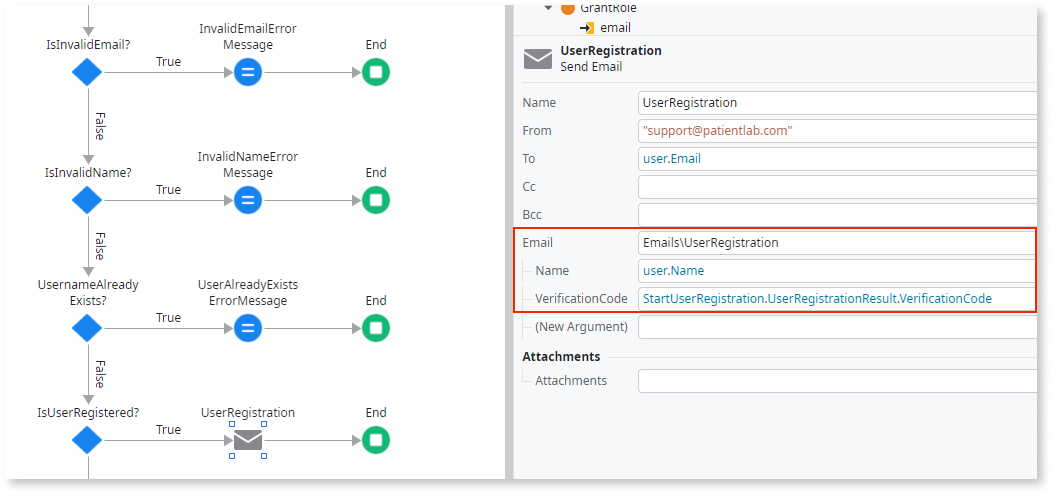
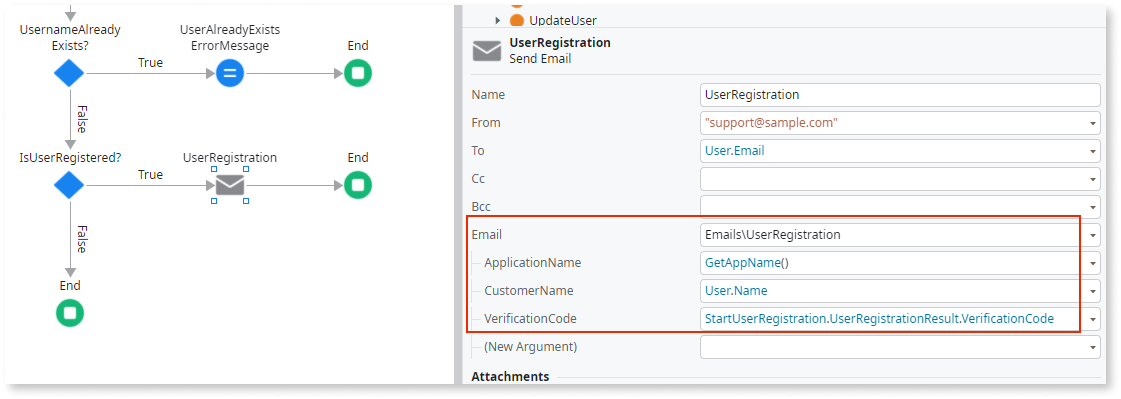
Improving self-registration and addressing feedback (#356)
* Improving self-registration and addressing feedback

* Incorporating peer feedback

* peer feedback

* minor updates

* minor peer feedback

* minor changes

---------

diff --git a/src/eap/building-apps/ui/self-registration/logic.md b/src/eap/building-apps/ui/self-registration/logic.md
@@ -15,9 +15,9 @@ If this is the first time you are creating the logic for self-registration, then
   
 To create logic to register users, follow these procedures. To make it easier, The procedure is divided into sections.
 
-## Setting up the server action
+## Setting up the Server action
 
-1. From the **Interface** tab, select the **Common** > **Signup**, and then on the canvas, click the **Signup** button to display the Properties and Styles panel.
+1. From the **Interface** tab, select the **Common** > **Signup**, and then on the canvas, click the **Signup** button to display the Properties panel.
 
     ![Copy login screen](images/signup-screen-odcs.png)
 
@@ -31,15 +31,17 @@ To create logic to register users, follow these procedures. To make it easier, T
 
     ![Start changing the sign-up flow](images/starting-signup-flow-odcs.png)
 
-1. From the Toolbox, drag the **Assign** widget onto the **True** branch and place it below the **Assign** element. The Assignments pane displays.
-1. In the **Assignments** pane, add the **IsExecuting** variable and set it to `True`.
+1. From the Toolbox, drag the **Assign** widget onto the **True** branch and place it below the **Assign** element. The Assignments panel displays.
+1. In the **Assignments** panel, add the **IsExecuting** variable and set it to `True`.
 1. From the Toolbox drag a **Run Server Action** widget to the canvas and place it below the **IsExecuting** assign element to display a select action pop-up.
 1. From the **Select Action** pop-up, click the **New Server Action** button to display the canvas and the Properties panel.
 1. In the **Server Action** Properties panel, in the name field enter `DoSignup`. The DoSignup function handles the user registration and validation inside the SignUpOnClick function.
 
-## Configuring the server action
+## Configuring the Server action
 
-After setting up the DoSignup action, you need to configure the server action. In the server action, you define what you want to happen next.   
+After setting up the DoSignup action, you need to configure the Server action. In the Server action, you define what you want to happen next.
+
+1. From the **Logic** tab, select **Server action**, and rename **Action1** to **DoSignup**.
 
 1. From the **Logic** tab, select **Server action**, right-click, and select **Add Public element** to display a pop-up.
 
@@ -52,24 +54,32 @@ After setting up the DoSignup action, you need to configure the server action. I
     </div>
 
 1. In the search bar pop-up, search for **StartUserRegistration**, then select it from the dropdown and click **Add**. ODC displays the **StartUserRegistration** action below system actions in the Logic tab.
-1. From the Toolbox, drag the **Run Server Action** widget to the canvas and place it between the Start and End elements to display a pop-up. In the search pop up, enter **StartUserRegistration** server action and then click **Select.**
+1. From the Toolbox, drag the **Run Server Action** widget to the canvas and place it between the Start and End elements to display a pop-up. In the search pop up, enter **StartUserRegistration** Server action and then click **Select.**
   
     ![Expand user and add variables](images/expand-user-input-paramenter-odcs.png)
 
-1. From the **Logic** tab, right-click the **DoSignup** server action and select add input parameter. Set the Name to `User` and the data type to `User`. In the **DoSignup** canvas, click **StartUserRegistration** action to display properties. Click  **+** to expand the user input and enter `User` as the name and `email` as User.Email.
+1. From the **Logic** tab, right-click the **DoSignup** Server action and select **add input parameter**. Set the Name to `User` and the data type to `User`. In the **DoSignup** canvas, click **StartUserRegistration** action to display properties. Click  **+** to expand the user input and enter `name` as User.Name and `email` as User.Email.
 
     ![Add three output parameters](images/output-paraments-signup-odcs.png)
 
-1. From the **Server Action**, right-click the **DoSignup** server action and select **Add Output** parameter. Enter the following output parameters:
-    1. IsSuccess with data type `Boolean`.
-    2. ErrorMessage with data type `Text`.
-    3. VerificationCode with data type `Text`.
+1. From the **Server Action**, right-click the **DoSignup** Server action and select **Add Output** parameter. Enter the following output parameters:
+    * IsSuccess with data type `Boolean`.
+    * ErrorMessage with data type `Text`.
+    * VerificationCode with data type `Text`.
 
     ![Start User Registration setting output variables](images/star-user-registration-variables-output-odcs.png)
 
-1.  On the **DoSignup** canvas, drag an **Assign** element and place it after the **StartUserRegistration** action. Under the Assignments pane, assign, set the following:
-    1.  IsSuccess as `StartUserRegistration.UserRegistrationResult.Success`.
-    1.  VerificationCode as `StartUserRegistration.UserRegistrationResult.VerificationCode`.
+1. On the **DoSignup** canvas, drag an **Assign** widget and place it after the **StartUserRegistration** action. Under the Assignments panel, assign, set the following:
+    * IsSuccess as `StartUserRegistration.UserRegistrationResult.Success`.
+    * VerificationCode as `StartUserRegistration.UserRegistrationResult.VerificationCode`.
+
+    ![SignUpOnClick client action go to DoSignUp and set the input parameters](images/signup-dosignup-input-parameters-odcs.png)
+
+1. From the canvas, click the **DoSignup** action to display the Properties panel, and set the following properties:
+
+    * **Id** as `NullIdentifier()`
+    * **Name** as `Name`
+    * **Email** as `UserEmail`
 
 ## Validate the input
 
@@ -80,22 +90,22 @@ You can check that the data entry fields only allow user data that complies with
 ### Checking for invalid emails
 
 1. From the Toolbox, drag an **If** widget after the IsSuccess assign element.
-1. In the Properties pane, set the Label as IsInvalidEmail? and the Condition as StartUserRegistration.UserRegistrationResult.StartUserRegistrationFailureReason.InvalidEmail
-1. From the Toolbox, drag an **Assign** element to the True branch.
+1. In the Properties panel of the widget, set the Label as IsInvalidEmail? and the Condition as StartUserRegistration.UserRegistrationResult.StartUserRegistrationFailureReason.InvalidEmail
+1. From the Toolbox, drag an **Assign** widget into the True branch.
 1. Under the **Assignments** tab, assign a variable ErrorMessage as `Invalid Email`.
 
 ### Checking for invalid names
 
-1. In the False branch, from the Toolbox, drag another **If** element.
-1. In the Properties panel, set the Label as IsInvalidName? and the Condition as StartUserRegistration.UserRegistrationResult.StartUserRegistrationFailureReason.InvalidName
-1. From the Toolbox, drag an **Assign** element to the True branch.
+1. From the Toolbox, drag an **If** widget into the False branch.
+1. In the Properties panel of the widget, set the Label as IsInvalidName? and the Condition as StartUserRegistration.UserRegistrationResult.StartUserRegistrationFailureReason.InvalidName
+1. From the Toolbox, drag an **Assign** widget into the True branch.
 1. Under the **Assignments** tab, assign a variable ErrorMessage as `Invalid Name`.
 
 ### Checking for a unique username
 
-1. In the False branch, from the Toolbox, drag another **If** element.
-1. In the Properties panel, set the Label as UsernameAlreadyExists? And the Condition as StartUserRegistration.UserRegistrationResult.StartUserRegistrationFailureReason.UserAlreadyRegistered
-1. From the Toolbox, drag an **Assign** element to the True branch.
+1. From the Toolbox, drag an **If** widget into the False branch.
+1. In the Properties panel of the widget, set the Label as UsernameAlreadyExists? And the Condition as StartUserRegistration.UserRegistrationResult.StartUserRegistrationFailureReason.UserAlreadyRegistered
+1. From the Toolbox, drag an **Assign** widget into the True branch.
 1. Under the **Assignments** tab, assign a variable ErrorMessage as `User already exists. Try to recover your password`.
 
 Verify the validation logic of the DoSignup action looks like the following screen shot.
@@ -104,8 +114,8 @@ Verify the validation logic of the DoSignup action looks like the following scre
 
 As a final validation, you can configure the flow to send an email to the user with the users name. Follow the steps below:
 
-1. In the False branch, from the Toolbox, drag another **If** element. In the Properties panel, set the Label as `IsUserRegistered?` and the Condition as `StartUserRegistration.UserRegistrationResult.Success`.
+1. From the Toolbox, drag an **If** widget into the False branch. In the properties panel of the widget, set the Label as `IsUserRegistered?` and the Condition as `StartUserRegistration.UserRegistrationResult.Success`.
 
-2. In the True branch, from the Toolbox, drag a **Send Email** widget. In the properties pane, set Name as `UserRegistration` and To as `User.Email`. In the Email setting, select the **New Email** option from the dropdown.
+1. In the True branch, from the Toolbox, drag a **Send Email** widget. In the properties panel of the widget, set Name to `UserRegistration` and To as `User.Email`. In the Email setting, select the **New Email** option from the dropdown.
 
 You can now [create an email to send the verification code.](email.md)

diff --git a/src/eap/building-apps/ui/self-registration/screen.md b/src/eap/building-apps/ui/self-registration/screen.md
@@ -7,13 +7,13 @@ app_type: mobile apps, reactive web apps
 platform-version: odc
 ---
 
-# Create a screen for users to self-register 
+# Create a screen for users to self-register
 
-To enable users to self-register to access your app, you can provide end users with a screen. At the very least, end users must provide their name and email address.
+To enable users to self-register to access your app, you can provide end-users with a login screen requiring them to enter their name and email address.
   
 To create a self-registration flow, open ODC studio and follow the steps below:
 
-1. From the **Interface** tab, click **UI Flows** > Common folder then copy and paste the Login screen into the same folder. This creates a copy of Login screen named Login2.
+1. From the **Interface** tab, click **UI Flows**. Then from the Common folder copy and paste the Login screen into the same folder. This creates a copy of Login screen named Login2.
 
     ![Copy login screen](images/copy-login-screen-odcs.png)
 
@@ -21,13 +21,14 @@ To create a self-registration flow, open ODC studio and follow the steps below:
 
 1. On the form, change the name and title field to `Signup`, and for the description enter `screen where users sign up`.
 
-1. From the **Interface** tab, click the **Widget Tree** > **Content** > **Container**, then rename LoginForm to `SignUpForm`.
-
     ![Sign-up screen structure](images/page-structure-odcs.png)
+
+1. From the **Interface** tab, click the **Widget Tree** > **Content** > **Container**, then rename LoginForm to `SignUpForm`.
 
 1. From the canvas, click the email label and input the fields container on the screen, then do the following:
     1. Copy and paste the specified container into the same folder.
     1. Set the Style Classes property of the new container to `margin-bottom-base`.
+    1. Rename the text in the old email label as Name.
 
     ![Sign-up screen rename local variables](images/rename-local-variable-odcs.png)
 
@@ -35,15 +36,15 @@ To create a self-registration flow, open ODC studio and follow the steps below:
 
 1. From the **Widget Tree**, delete the container with the label password and input field in the Widget tree for the Signup screen.  
 
-1. From the **Elements** tab, delete the client actions OnTogglePasswordVisibility and LoginOnClick, and the local variables IsPasswordVisible and Password.
+1. From the Elements tab, delete these actions; TogglePasswordVisibility and loginOnClick. Then delete these local variables; IsPasswordVisible and Password.
 
-1. In the **Signup** canvas, click **Login** button and change the text from Log in to `Sign-up` .
+1. In the **Signup** canvas, click the **Login** button and change the text from Log in to `Sign up` .
 
-1. From the Toolbox, drag a button onto the canvas and place it after the Sign-up button and then name the button `Cancel`.
+1. From the Toolbox, drag a button onto the canvas and place it after the **Sign-up** button and then name the button `Cancel`.
 
-1. In the Properties panel for the cancel button, select `Common\\Login` from the dropdown for the On Click event.
+1. In the Properties panel for the cancel button, select `Common\Login` from the dropdown for the On Click event.
 
-1. In the Properties panel for the cancel button under the **Style classes** property, replace the class btn btn-primary with `btn margin-top-base` and change the value for IsFormDefault to No. Then, set the Width property to set Fill in under Styles > Layout.
+1. In the Properties panel for the cancel button under the **Style classes** property set the value for **Is Form Default** to No. Replace the class btn btn-primary with `btn margin-top-base` and set the Width property to set Fill.
 
     ![Sign-up delete useless code from Login screen.](images/delete-useless-code-odcs.png)
 

diff --git a/src/eap/building-apps/ui/self-registration/email.md b/src/eap/building-apps/ui/self-registration/email.md
@@ -23,10 +23,10 @@ Follow these steps to create your own email.
 
 ![Base email screen](images/email-screen-odcs.png)
 
-1. From the **Elements** tab, copy and paste the **ResetPassword** email into the same folder. It creates a copy of the Reset password in the emails folder.
-1. In **Elements** tab, select Emails, and rename the email **ResetPassword2** to `UserRegistration`.
-1. From **Emails**, click **UserRegistration**, then modify the **Subject** in properties, for example, `Welcome to Your Sample App `.
-1. On canvas, click on the text above the unique verification code. Then in properties, replace the text.
+1. From the **Interface** tab, click **UI Flows**. Then from the Emails copy and paste the **ResetPassword** email into the same folder. This creates a copy of the Reset password in the emails folder named ResetPassword2.
+1. In the **Elements** tab, select Emails, and rename the email **ResetPassword2** to `UserRegistration`.
+1. From **Emails**, click **UserRegistration**, then modify the **Subject** in the properties panel, for example, `Welcome to Your Sample App`.
+1. On the canvas, click on the text above the unique verification code. Then in properties, replace the text.
 
     <div class="info" markdown="1">
 
@@ -42,7 +42,7 @@ Follow these steps to create your own email.
     
     </div>
 
-1. On canvas, click on the text below the unique verification code. Then in Properties, replace the text.
+1. On the canvas, click on the text below the unique verification code. Then in Properties, replace the text.
     
     <div class="info" markdown="1">
 
@@ -60,9 +60,8 @@ Follow these steps to create your own email.
 
     ![The delete password container](images/delete-password-container.png)
 
-6. Click on the **Widget** Tree, and remove the following containers:
-   1. Click on the **ResetPassword** parent container, to select and delete the container shown in the image above.
-
+1. Click on the **Widget** tree, and remove the following containers:
+   1. Click on the **ResetPassword** parent container, to select and delete the container shown in the previous image.
    1. Click on the **Instruction** container, to select and delete the container.
 
     ![The email final result](images/final_result-odcs.png)
@@ -77,20 +76,19 @@ Before updating the actions, delete the input parameter **CustomerEmail** by exp
 
 1. From the canvas, click **UserRegistration** element to display Properties panel. Set the following properties:
 
-    1. **CustomerName** to `user.Name`.
+    1. **CustomerName** to `user.Name`
+    1. **VerificationCode** to `StartUserRegistration.UserRegistrationResult.VerificationCode`
+    1. **ApplicationName** as `GetAppName()`
 
-    2. **VerificationCode** to `StartUserRegistration.UserRegistrationResult.VerificationCode`.
-
-2. From the **Interface tab**, click  the **SignUp screen** > **SignUpOnClick** action to display **SignUpOnClick** on the canvas.
+1. From the **Interface tab**, click  the **SignUp screen** > **SignUpOnClick** action to display **SignUpOnClick** on the canvas.
  
     ![SignUpOnClick client action go to DoSignUp an set the input parameters](images/signup-dosignup-input-parameters-odcs.png)
 
-1. From the canvas, click the **DoSignup** action to display the Properties panel, and set the following properties:
+1. From the canvas, click the **DoSignup** action to display the Properties panel, and confirm the following properties:
 
-      1.  **Id** as `NullIdentifier()`
-      2.  **Name** as `Name`
-      3.  **Email** as `UserEmail` 
-      4.  **ApplicationName** as `GetAppName()`
+      1. **Id** as `NullIdentifier()`
+      1. **Name** as `Name`
+      1. **Email** as `UserEmail`
 
 ## Completing the DoSignUp flow
 

diff --git a/src/eap/building-apps/ui/self-registration/intro.md b/src/eap/building-apps/ui/self-registration/intro.md
@@ -8,6 +8,7 @@ platform-version: odc
 ---
 
 # Self-registration flow
+
 The self registration flow enables users to access your app without human intervention. To access your apps, users need a way to log in. Depending upon the type of app you create, users may find your app from your website through a Google search. If you have an app that requires users to register to log in, you may need to provide them with an email link to your app.
 
 You might also want users to be validated as part of the sign-in process. Many apps use a verification process in which you provide users with a verification code. You can use verification codes to confirm the validity of the user using the email address.
@@ -18,15 +19,15 @@ The OutSystems Developer Cloud (ODC) Portal provides access to the Forge. In For
 
 </div>
 
-You can also use the [provided OML](resources/SampleApp.oml). The OML is an example app with the self-registration flow implemented. You can follow the steps in the OML directly to copy elements. The example app is a template for self-registration flow.
+You can also use the [provided OML](resources/SelfRegistrationSample.oml). The OML is an example app with the self-registration flow implemented. You can follow the steps in the OML directly to copy elements. The example app is a template for the self-registration flow.
 
-Users then follow a self-registration process to gain access to the app. To personalize the your users experience, you create screens, logic, emails, and validations in ODC studio.
+Users then follow a self-registration process to gain access to the app. To personalize your users experience, you create screens, logic, emails, and validations in ODC studio.
 
 You start by creating a **Signup** screen. A signup screen usually requires users to enter a username and an email address. Security of your app and systems is essential. If your company has security requirements for logging into an app, you can use ODC Studio to create logic to register a user. Writing business logic lets you define the actions. For example, using logic, you can:
 
 * Create actions that send emails
 * Generate a verification code that gets included in the email to the user
-* Verify the verification the user submits
+* Verify the verification code the user submits
 
 Verification codes enable you to confirm that the person registering has access to that email. In ODC, you can **create an email to send the verification code**.
 
